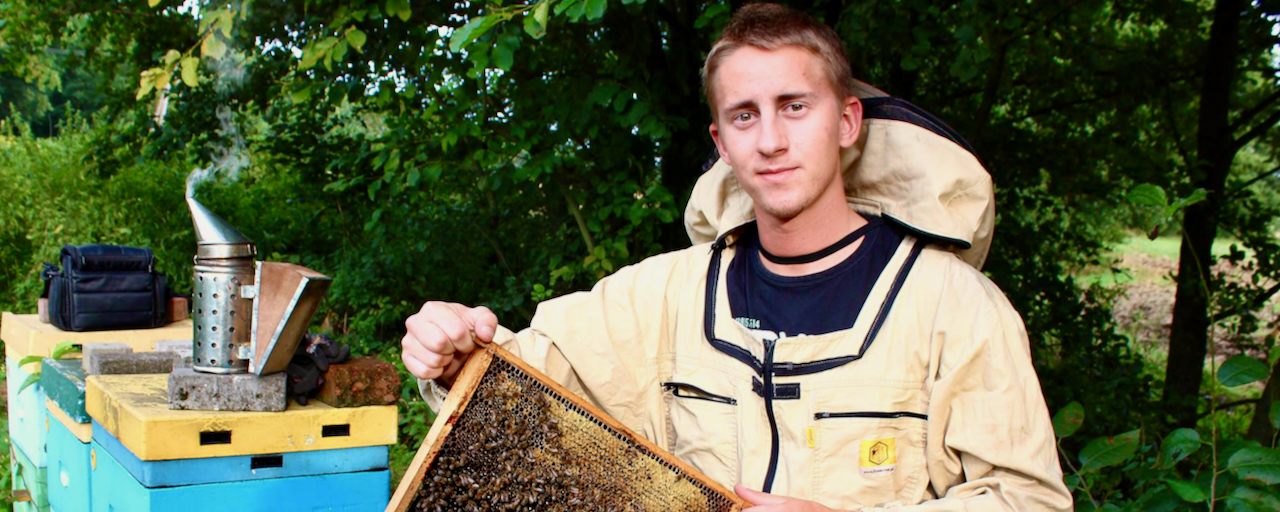
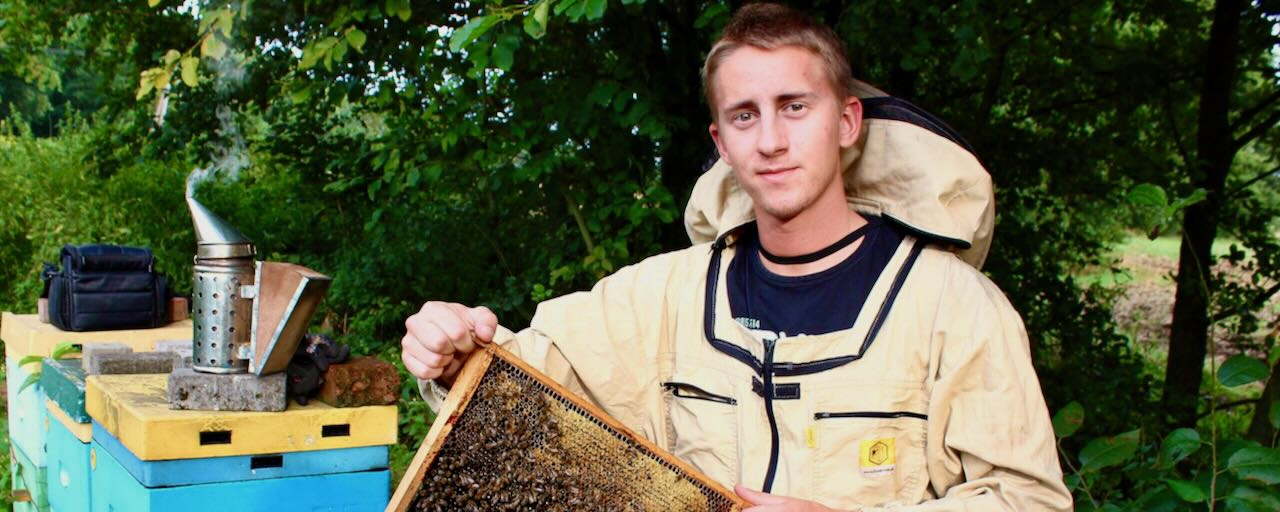
Zmniejszono rozmiar zdjęć z głównego slidera i usunięto background

diff --git a/frontend/src/app/components/about-us/about-us.component.html b/frontend/src/app/components/about-us/about-us.component.html
@@ -49,7 +49,7 @@
                 </div>
             </div>
             <div class="carousel-item" data-bs-interval="4000">
-                <img src="assets/images/kłodzko_1.jpeg" class="d-block w-100" alt="Kotlina kłodzka" />
+                <img src="assets/images/kotlina_klodzka.jpeg" class="d-block w-100" alt="Kotlina kłodzka" />
                 <div class="carousel-caption d-none d-md-block">
                 </div>
             </div>

diff --git a/frontend/src/styles.css b/frontend/src/styles.css
@@ -3,11 +3,7 @@ body {
     height: 100%;
     margin: 0;
     padding: 0;
-    background-image: url('assets/images/background.jpeg');
-    background-size: cover;
-    background-position: center;
-    background-repeat: no-repeat;
-    background-attachment: fixed;
+    background-color: white;
 }
 
 app-root {

diff --git a/frontend/src/app/components/product-details/product-details.component.html b/frontend/src/app/components/product-details/product-details.component.html
@@ -1,4 +1,4 @@
-<div class="product-details pt-3">
+<div class="product-details shadow-lg pt-3">
     <div class="row my-5">
         <div *ngIf="product.productId" class="col-sm-7">
             <div [attr.id]="'carouselForProduct' + product.productId"

diff --git a/frontend/src/app/components/product-list/product-list.component.html b/frontend/src/app/components/product-list/product-list.component.html
@@ -1,4 +1,4 @@
-<div class="product-list">
+<div class="product-list shadow-lg">
     <div class="row m-1 pt-4">
         <div class="col-md-9">
             <h1 id="categories" class="text-center">
